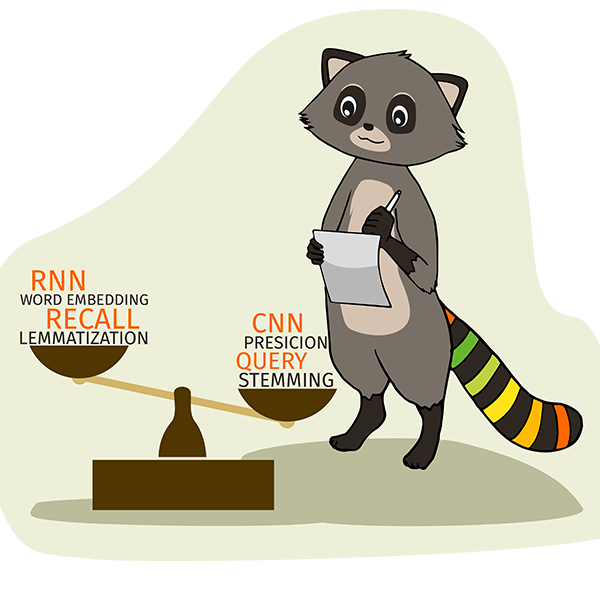
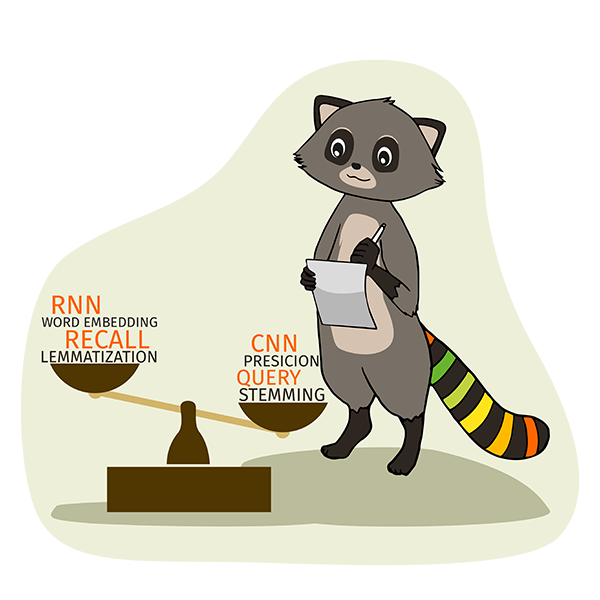
Add mascott everywhere

diff --git a/sidebars.js b/sidebars.js
@@ -2,13 +2,14 @@ module.exports = {
   docs: [
   ],
   comparisons: [
-     'comparisons/intro',
+     'comparisons/comparisons-intro',
      'comparisons/overview',
      'comparisons/data-comparison',
      'comparisons/stemming',
      'comparisons/embeddings'
   ],
   guides: [
+     'guides/guides-intro'
      'guides/elastic-setup',
      'guides/basic-definitions',
      'guides/how-to-parse',
@@ -16,6 +17,7 @@ module.exports = {
      'guides/ranking-api'
   ],
   experiments: [
+     'experiments/experiments-intro'
      'experiments/experiment1',
      'experiments/experiment2'
   ],

diff --git a/src/css/custom.css b/src/css/custom.css
@@ -61,6 +61,12 @@ a:hover {
   font-size: 16px;
 }
 
+/*Changes navigationbar Logo size*/
+.navbar__logo {
+  height: 200%;
+  margin-right: 0;
+  }
+
 /*color and thickness of border between navigation bar elements*/
 .navbar__item.navbar__link.navbar__link, li {
   border-right: 0px solid #ffffff;

diff --git a/docusaurus.config.js b/docusaurus.config.js
@@ -31,7 +31,7 @@ module.exports = {
       title: '',
       logo: {
         alt: '',
-        src: 'img/Logo_orangenerHG.png',
+        src: 'img/kleines_Icon_2.png',
       },
       prism: {
         theme: require('prism-react-renderer/themes/github'),
